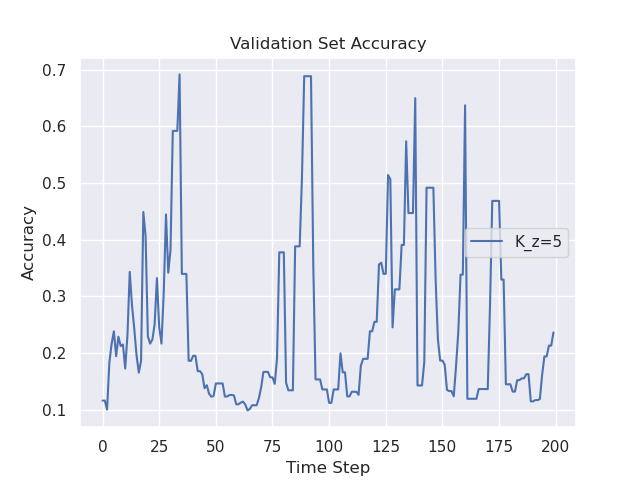
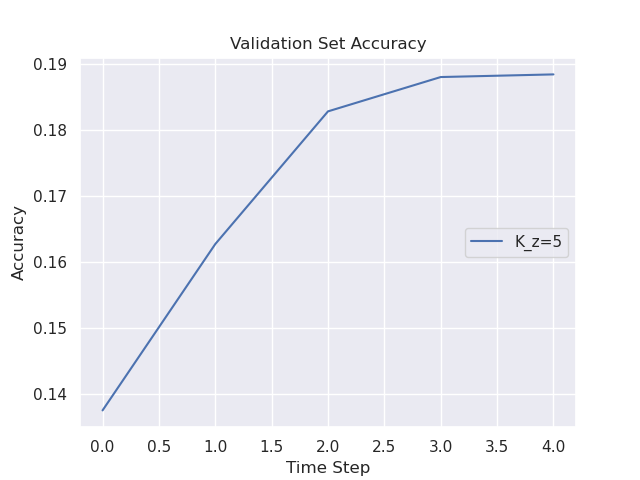
Sweeps are running for all algorithms

diff --git a/admm/servers.py b/admm/servers.py
@@ -33,6 +33,7 @@ class EventADMM:
         self.local_res = [self.get_parameters(self.global_model) for _ in range(self.N)]
         self.cumm_global = 0
         self.delta_z = np.zeros(self.N)
+        # self.delta_z = 0
     
     def spin(self, K_x, K_z, rate_ref, loader=None) -> None:
 
@@ -43,7 +44,7 @@ class EventADMM:
         integral = 0
         window_length = 10
         train = True
-        global_freq = 1
+
         alpha = 0.9
         p_meas = np.zeros(self.N)
         global_freq = np.ones(self.N)
@@ -60,14 +61,16 @@ class EventADMM:
             # Primal Update
             D = []
             delta_description=', '
+            local_flag = False
             for i, agent in enumerate(self.agents):
                 if agent.recieve:
                     d , global_indicator = agent.primal_update(round, params=self.global_params)
                     agent.recieve=False
+                    local_flag = True
                 else: 
                     d = 0
                 D.append(d)            
-            delta_description += f', d_x:{delta:.1f}, min: {min(D):.2f}, max: {max(D):.2f}, med: {statistics.median(D):.2f}'
+            delta_description += f', d_x:{delta:.1f}, max: {max(D):.2f}, med: {statistics.median(D):.2f}'
             if self.device == 'cuda': torch.cuda.synchronize()
                 
             # Residual update in the case of communication
@@ -122,47 +125,36 @@ class EventADMM:
             else: GPU_desctiption = ''
             
             # Analyse communication frequency and log stats
-            freq = (global_freq + local_freq)*0.5
-            # freq = local_freq
 
             delta_z_desc = ', dz: ('
             for dz in self.delta_z:
                 delta_z_desc += f'{dz:.1f} '
             delta_z_desc + ')'
+            # delta_z_desc = f', dz: {self.delta_z}'
             self.pbar.set_description(f'global: ' + global_desc + acc_descrption + delta_description + delta_z_desc)
 
             # For experiment purposes
-            self.rates.append(freq)
-            self.val_accs.append(global_acc.detach().cpu().numpy())
+            if local_flag:
+                self.val_accs.append(global_acc.detach().cpu().numpy())
             
             if adaptive_delta:
-                delta = delta + K_x*(local_freq - rate_ref)
-                if delta <= 0: delta = 0
-                # Assign delta to clients and server
-                for agent in self.agents: agent.delta = delta
-                # self.delta_z = delta
-                # integral += global_comm/(round+1) - rate_ref
-                # self.delta_z = K_z*(global_comm/(round+1) - rate_ref) #+ 0.01*integral
-                
-                # if round < 10:
-                #     self.delta_z += K_z*(sum(global_comm[-window_length:])/(round + 1) - rate_ref)
-                # else:
-                #     self.delta_z += K_z*(sum(global_comm[-window_length:])/10 - rate_ref)
-                
-                # self.delta_z = K_z*integral
-                # self.delta_z = 7
-                p_meas = (1-alpha)*p_meas + alpha*global_freq
-                # self.delta_z += K_z*(p_meas - rate_ref)
+                if local_flag:
+                    delta = delta + K_x*(local_freq - rate_ref)
+                    if delta <= 0: delta = 0
+                    # Assign delta to clients and server
+                    for agent in self.agents: agent.delta = delta
 
+                p_meas = (1-alpha)*p_meas + alpha*global_freq
                 self.delta_z = self.delta_z + K_z*(p_meas - rate_ref*np.ones(p_meas.shape))
                 for i, dz in enumerate(self.delta_z):
                     if dz <=0: self.delta_z[i] = 0
-
-        load = statistics.mean(global_comm)*0.5 + statistics.mean(local_comm)*0.5
-        print(f'Total communication load = {load}, alpha = {alpha}')
-        self.rates = np.array(self.rates)
+            
+            gc = [(g_elem + l_elem)/2 for g_elem, l_elem in zip(global_comm, local_comm) if g_elem != 0]
+            if len(gc) >= 100: break
+        
+        self.load = statistics.mean(gc)
+        print(f'Total communication load = {self.load}, alpha = {alpha}, number of rounds = {len(gc)}')
         self.val_accs = np.array(self.val_accs)
-
 
     def set_parameters(self, parameters, model: torch.nn.Module) -> None:
         """Change the parameters of the model using the given ones."""

diff --git a/experiments/cluster/cifar/cifar_federated.py b/experiments/cluster/cifar/cifar_federated.py
@@ -116,16 +116,17 @@ if __name__ == '__main__':
     # deltas = [0, 10, 16, 20, 24, 28, 30, 32]
     
     # rate_refs = [0.1, 0.2, 0.3, 0.4, 0.5, 0.6, 1]
-    rate_ref=0.1
+    rate_ref=0.05
     Kzs = [5, 3, 1]
-    Kzs = [5]
+    rates = [0.1, 0.15, 0.2, 0.25, 0.3, 0.4, 0.5, 0.6, 1]
     # Kzs.reverse()
     lr = 0.01
-    t_max = 150
+    t_max = 300
+    rounds = 100
     rho = 0.01
     
-    acc_per_item = np.zeros((len(Kzs), t_max))
-    rate_per_item = np.zeros((len(Kzs), t_max))
+    acc_per_item = np.zeros((len(Kzs), rounds))
+    rate_per_item = np.zeros((len(Kzs), rounds))
     loads = []
     test_accs = []
     
@@ -133,8 +134,8 @@ if __name__ == '__main__':
     global_weight = rho/(rho*num_clients - 2*gamma)
     total_samples = sum([len(loader.dataset) for loader in trainloaders])
     
-    item_list = Kzs
-    item_key = 'K_z'
+    item_list = rates
+    item_key = 'rate'
 
     for i, item in enumerate(item_list):
         print(f'Testing with K_z = {item} and initialising delta_z = 0 and using leaky PI control')
@@ -152,7 +153,7 @@ if __name__ == '__main__':
                     model=model,
                     loss=nn.CrossEntropyLoss(),
                     train_loader=loader,
-                    epochs=2,
+                    epochs=8,
                     data_ratio=data_ratio,
                     device=device,
                     lr=lr,
@@ -173,22 +174,21 @@ if __name__ == '__main__':
         torch.manual_seed(42)
         global_model = Cifar10CNN()
         server = EventADMM(clients=agents, t_max=t_max, model=global_model, device=device)
-        server.spin(loader=test_global_dl, K_x=5, K_z=item, rate_ref=rate_ref)
+        server.spin(loader=test_global_dl, K_x=5, K_z=5, rate_ref=item)
         
         # For plotting purposes
         acc_per_item[i,:] = server.val_accs
-        rate_per_item[i,:] = server.rates
-        load = sum(rate_per_item[i,:])/t_max
+        # load = sum(rate_per_item[i,:])/t_max
         acc = server.validate_global(loader=test_global_dl)
-        print(f'Load for {item_key} {item} = {load} | Test accuracy = {acc}')
-        loads.append(load)
+        # print(f'Load for {item_key} {item} = {load} | Test accuracy = {acc}')
+        loads.append(server.load)
         test_accs.append(acc.cpu().numpy())
 
     """
     Plot Results
     """
 
-    T = range(t_max)
+    T = range(rounds)
     
     for acc_per, item in zip(acc_per_item, item_list):
         plt.plot(T, acc_per, label=f'{item_key}={item}')
@@ -197,16 +197,6 @@ if __name__ == '__main__':
     plt.ylabel('Accuracy')
     plt.title('Validation Set Accuracy')
     plt.savefig('./images/FedEvent/fc_val_100.png')
-    plt.cla()
-    plt.clf()
-
-    for rate, item in zip(rate_per_item, item_list):    
-        plt.plot(T, rate, label=f'{item_key}={item}')
-    plt.legend(loc='center right', bbox_to_anchor=(1, 0.5))
-    plt.xlabel('Time Step')
-    plt.ylabel('Rate')
-    plt.title('Communication Rate')
-    plt.savefig('./images/FedEvent/fc_comm_rate_100.png')
     plt.cla()
     plt.clf()
 

diff --git a/experiments/cluster/cifar/cifar_jobs.py b/experiments/cluster/cifar/cifar_jobs.py
@@ -18,7 +18,7 @@ class FedADMMJob:
         self.train_loaders = train_loaders
         self.test_loader = test_loader
         self.val_loader = val_loader
-        self.t_max = t_max
+        self.t_max = 100
         self.lr = lr
         self.rho = 0.01 
         self.device = device
@@ -30,6 +30,8 @@ class FedADMMJob:
         print(rates)
 
         self.agents = []
+        print(len(rates))
+        print(self.t_max)
         self.acc_per_rate = np.zeros((len(rates), self.t_max))
         self.rate_per_rate = np.zeros((len(rates), self.t_max))
         self.loads = []
@@ -47,7 +49,7 @@ class FedADMMJob:
                         model=model,
                         loss=nn.CrossEntropyLoss(),
                         train_loader=loader,
-                        epochs=2,
+                        epochs=8,
                         device=self.device,
                         lr=self.lr,
                         data_ratio=len(loader.dataset)/total_samples
@@ -148,7 +150,7 @@ class FedLearnJob:
                         loss=nn.CrossEntropyLoss(),
                         model=model,
                         train_loader=loader,
-                        epochs=2,
+                        epochs=8,
                         device=self.device,
                         lr=self.lr
                     )

diff --git a/experiments/cluster/cifar/main.py b/experiments/cluster/cifar/main.py
@@ -74,7 +74,7 @@ if __name__ == '__main__':
     """
     Run FedAVG and FedProx Experiments
     """
-    t_max = 200
+    t_max = 100
 
     prox_args = {
         'train_loaders':trainloaders, 'test_loader':test_global_dl, 'val_loader': test_global_dl,
@@ -86,9 +86,10 @@ if __name__ == '__main__':
 
     ADMM_args = {
         'train_loaders':trainloaders, 'test_loader':test_global_dl, 'val_loader': test_global_dl,
-        't_max':t_max, 'lr':0.01, 'device':device, 'num_agents':num_clients
+        't_max': t_max, 'lr':0.01, 'device':device, 'num_agents':num_clients
     }
 
     # for arg in args:
-    job = FedLearnJob(**prox_args)
+    # job = FedLearnJob(**avg_args)
+    job = FedADMMJob(**ADMM_args)
     job.run()
